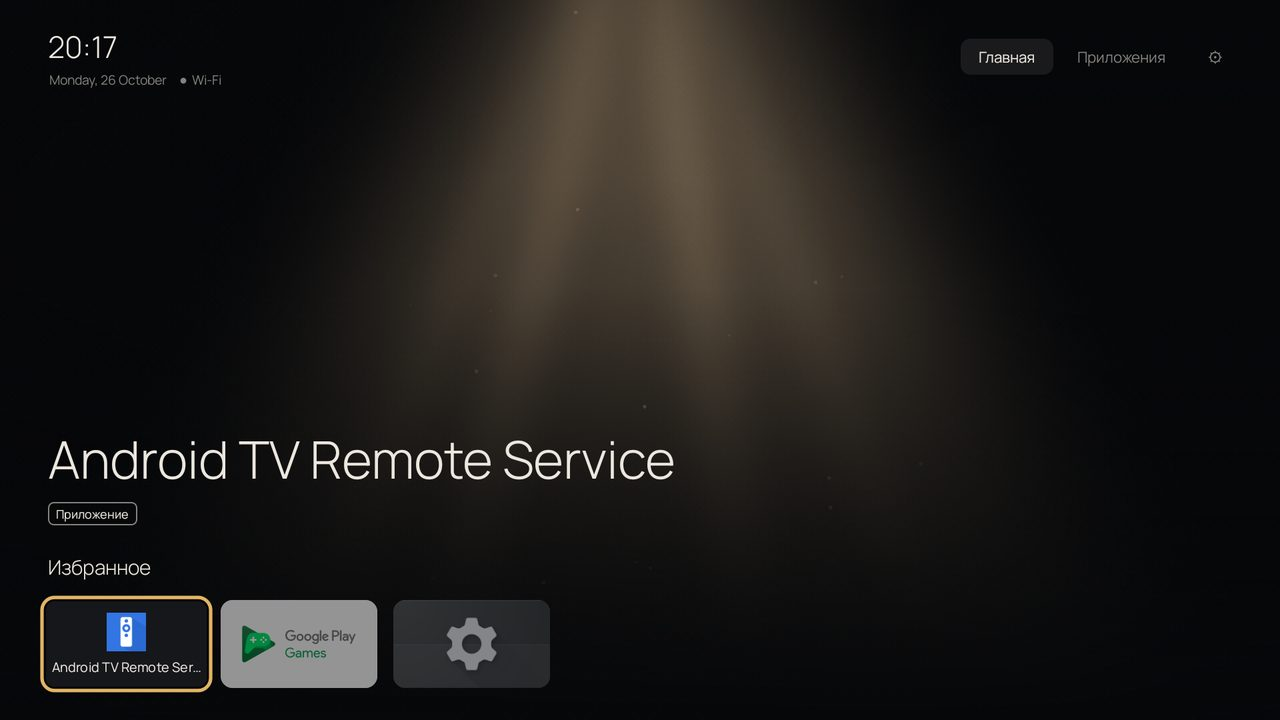
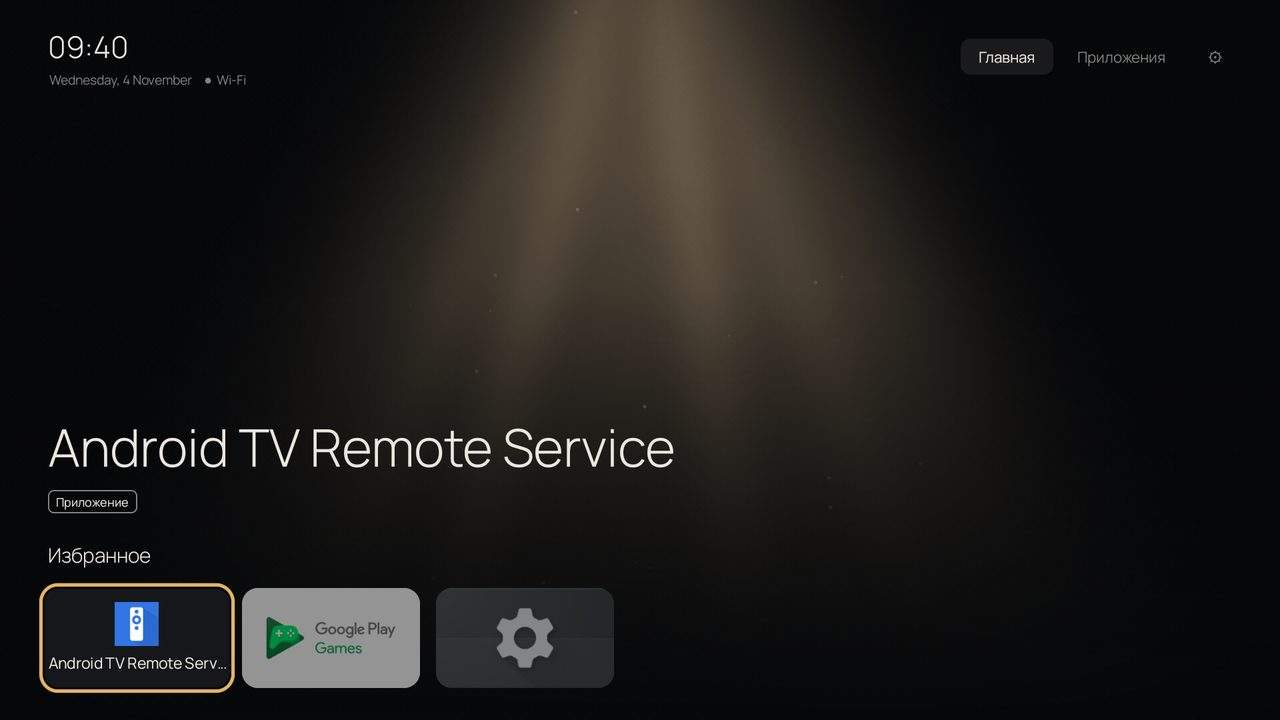
Luch 1.2: same tile size on the home screen as in the apps tab
Tiles of one app share a drawable, and a drawable stores its size. After the larger
grid was laid out, a home tile redrawn with that size was cropped on the right and
bottom. Both rows now use 100dp tiles.

Changed region(s): [[0.0312, 0.7639, 0.5, 0.9778], [0.0312, 0.5806, 0.5312, 0.7333], [0.0312, 0.0306, 0.1875, 0.1222]]

diff --git a/src/com/local/tvlauncher/HomeActivity.java b/src/com/local/tvlauncher/HomeActivity.java
@@ -945,15 +945,19 @@ public class HomeActivity extends Activity {
             if (hdmi != null) dockApps.add(hdmi);
         }
         dockLabel.setText(noFavs ? "Приложения" : "Избранное");
-        int dockH = (int) Math.min(88, Ui.heightDp(this) * 0.125f);
         dock.removeAllViews();
-        fill(dock, dockApps, noFavs ? ROW_DOCK : ROW_FAV, dockH, 16);
+        fill(dock, dockApps, noFavs ? ROW_DOCK : ROW_FAV, tileH(), 16);
 
         // The grid is built only when its tab is open: less work on every return home.
         gridDirty = true;
         if (tab == TAB_APPS) buildGrid();
 
         if (!restoreFocus()) focusFirst();
+    }
+
+    /** Height of the tiles, the same in the dock and in the grid. */
+    private int tileH() {
+        return (int) Math.min(100, Ui.heightDp(this) * 0.14f);
     }
 
     private List<Apps.App> visible() {
@@ -980,7 +984,7 @@ public class HomeActivity extends Activity {
         gridDirty = false;
         grid.removeAllViews();
         List<Apps.App> all = visible();
-        int gridH = (int) Math.min(100, Ui.heightDp(this) * 0.14f);
+        int gridH = tileH();
         float tileW = gridH * 16 / 9f;
         int gap = 22;
         int cols = Math.max(1, (int) ((Ui.widthDp(this) - 96 + gap) / (tileW + gap)));

diff --git a/README.md b/README.md
@@ -38,7 +38,7 @@
 
 Готовый APK лежит в [Releases](../../releases).
 
-1. Установите APK: с флешки через файловый менеджер или `adb install Luch-1.1.apk`.
+1. Установите APK: с флешки через файловый менеджер или `adb install Luch-1.2.apk`.
    После установки ничего не меняется, текущий лаунчер остаётся главным.
    Новая версия ставится поверх старой, настройки сохраняются.
 2. Откройте «Настройки Luch» из списка приложений.
